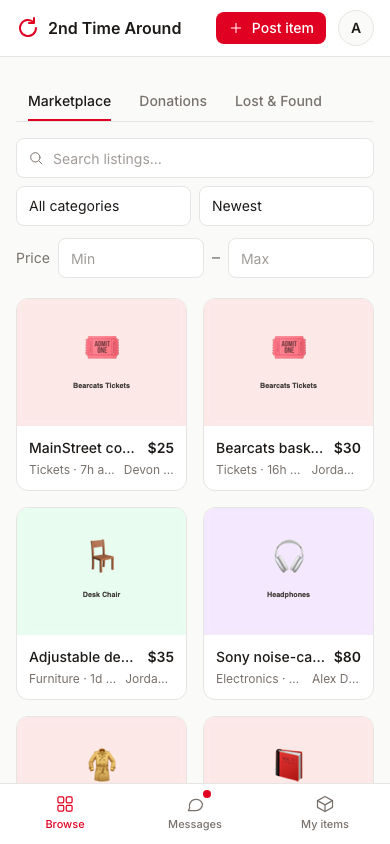
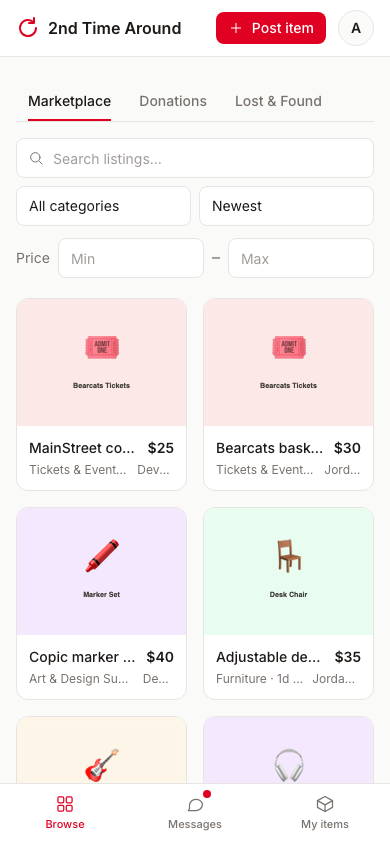
Implement the 13-category campus taxonomy from the system design
One validated string enum drives the Zod schema, browse filter, and
sell wizard. Seed remapped to the new categories with at least one
active listing per category (46 listings total), and the category-
visible screenshots refreshed.

diff --git a/prisma/seed.ts b/prisma/seed.ts
@@ -72,7 +72,7 @@ async function main() {
     type: "SELL", title: "Calculus: Early Transcendentals (8th ed)",
     description:
       "Stewart's calculus, used for MATH 1061/1062. Clean pages, no highlighting, binding solid. Saves you $200 vs the bookstore.",
-    category: "Textbooks", condition: "Like new", price: 45,
+    category: "Textbooks & Course Materials", condition: "Like new", price: 45,
     photos: ["/seed/calc-textbook.svg"], ownerId: maya.id,
     createdAt: daysAgo(2), viewCount: 38,
   });
@@ -80,7 +80,7 @@ async function main() {
     type: "SELL", title: "Organic Chemistry textbook + model kit",
     description:
       "Klein 4th edition with the molecular model kit thrown in. A few chapters have neat pencil notes (honestly helpful).",
-    category: "Textbooks", condition: "Good", price: 60,
+    category: "Textbooks & Course Materials", condition: "Good", price: 60,
     photos: ["/seed/chem-textbook.svg"], ownerId: priya.id,
     createdAt: daysAgo(4), viewCount: 22,
   });
@@ -104,7 +104,7 @@ async function main() {
     type: "SELL", title: "Mini fridge (3.2 cu ft)",
     description:
       "Cold, quiet, ice tray included. Moving off campus to a place with a real fridge. Pickup at Calhoun garage is easiest.",
-    category: "Dorm", condition: "Good", price: 70,
+    category: "Dorm & Apartment Essentials", condition: "Good", price: 70,
     photos: ["/seed/mini-fridge.svg"], ownerId: devon.id,
     createdAt: daysAgo(3), viewCount: 55,
   });
@@ -128,7 +128,7 @@ async function main() {
     type: "SELL", title: "UC Bearcats hoodie, size M",
     description:
       "Official bookstore hoodie, worn a handful of times. Too small for me now. No stains, no pilling.",
-    category: "Clothing", condition: "Like new", price: 20,
+    category: "Clothing & Accessories", condition: "Like new", price: 20,
     photos: ["/seed/uc-hoodie.svg"], ownerId: sam.id,
     createdAt: daysAgo(2, 5), viewCount: 12,
   });
@@ -136,7 +136,7 @@ async function main() {
     type: "SELL", title: "Bearcats basketball tickets (2) — Saturday",
     description:
       "Two student-section tickets for Saturday's home game. Can't make it anymore. Face value, no markup.",
-    category: "Tickets", condition: "New", price: 30,
+    category: "Tickets & Events", condition: "New", price: 30,
     photos: ["/seed/bball-tickets.svg"], ownerId: jordan.id,
     createdAt: daysAgo(1, 8), viewCount: 64,
   });
@@ -144,7 +144,7 @@ async function main() {
     type: "SELL", title: "5x7 area rug, neutral pattern",
     description:
       "Makes a dorm room instantly less echoey. Spot-cleaned, ready to go. Rolled up for easy carry.",
-    category: "Dorm", condition: "Good", price: 25,
+    category: "Dorm & Apartment Essentials", condition: "Good", price: 25,
     photos: ["/seed/rug.svg"], ownerId: devon.id,
     createdAt: daysAgo(9), viewCount: 19,
   });
@@ -153,21 +153,21 @@ async function main() {
     type: "SELL", title: "Road bike — 54cm, recently tuned",
     description:
       "Commuter road bike, new brake pads, rides smooth. Selling because I'm studying abroad in the spring.",
-    category: "Other", condition: "Good", price: 140,
+    category: "Bikes & Transit", condition: "Good", price: 140,
     photos: ["/seed/bike.svg"], ownerId: jordan.id,
     status: "SOLD", createdAt: daysAgo(30), updatedAt: daysAgo(28), viewCount: 88,
   });
   const soldPsych = await L({
     type: "SELL", title: "PSYC 1001 textbook bundle",
     description: "Both required books for intro psych, good condition.",
-    category: "Textbooks", condition: "Good", price: 38,
+    category: "Textbooks & Course Materials", condition: "Good", price: 38,
     photos: ["/seed/psych-textbook.svg"], ownerId: priya.id,
     status: "SOLD", createdAt: daysAgo(45), updatedAt: daysAgo(42), viewCount: 51,
   });
   await L({
     type: "SELL", title: "Winter coat, women's S",
     description: "Warm parka, perfect for the walk up the hill in January.",
-    category: "Clothing", condition: "Good", price: 28,
+    category: "Clothing & Accessories", condition: "Good", price: 28,
     photos: ["/seed/winter-coat.svg"], ownerId: maya.id,
     status: "SOLD", createdAt: daysAgo(60), updatedAt: daysAgo(55), viewCount: 47,
   });
@@ -177,7 +177,7 @@ async function main() {
     type: "DONATE", title: "Desk lamp with USB port",
     description:
       "Works great, just have two. LED bulb included. First come, first served — grab it before finals week.",
-    category: "Dorm", condition: "Good",
+    category: "Dorm & Apartment Essentials", condition: "Good",
     photos: ["/seed/desk-lamp.svg"], ownerId: maya.id,
     createdAt: daysAgo(1, 3), viewCount: 26,
   });
@@ -185,7 +185,7 @@ async function main() {
     type: "DONATE", title: "String lights (2 sets, warm white)",
     description:
       "Both sets work, every bulb checked. Make your dorm cozy for free.",
-    category: "Dorm", condition: "Like new",
+    category: "Dorm & Apartment Essentials", condition: "Like new",
     photos: ["/seed/string-lights.svg"], ownerId: sam.id,
     createdAt: daysAgo(3, 6), viewCount: 14,
   });
@@ -193,7 +193,7 @@ async function main() {
     type: "DONATE", title: "Intro psych study guides + flashcards",
     description:
       "Handwritten study guides and two boxes of flashcards from PSYC 1001. Helped me get an A — pay it forward.",
-    category: "Textbooks", condition: "Good",
+    category: "Textbooks & Course Materials", condition: "Good",
     photos: ["/seed/psych-textbook.svg"], ownerId: priya.id,
     createdAt: daysAgo(7), viewCount: 9,
   });
@@ -226,7 +226,7 @@ async function main() {
     type: "LOST", title: "Black JanSport backpack",
     description:
       "Lost Tuesday afternoon. Has a laptop sleeve, a red carabiner on the top handle, and chem notes inside. Reward: coffee on me.",
-    category: "Other", locationNote: "Braunstein Hall, room 300",
+    category: "Clothing & Accessories", locationNote: "Braunstein Hall, room 300",
     photos: ["/seed/backpack.svg"], ownerId: sam.id,
     createdAt: daysAgo(1, 2), viewCount: 42,
   });
@@ -252,7 +252,7 @@ async function main() {
     type: "FOUND", title: "Teal water bottle (32oz)",
     description:
       "Found on a bench outside the CRC after the 6pm rush. Has a couple of stickers on it — describe them and it's yours.",
-    category: "Other", locationNote: "CRC main entrance benches",
+    category: "Sports & Fitness", locationNote: "CRC main entrance benches",
     photos: ["/seed/water-bottle.svg"], ownerId: jordan.id,
     createdAt: daysAgo(1, 6), viewCount: 27,
   });
@@ -484,7 +484,7 @@ async function main() {
     type: "DONATE", title: "Closet organizer + 30 hangers",
     description:
       "Hanging fabric organizer plus a big stack of matching hangers. Free — just come grab it before move-out.",
-    category: "Dorm", condition: "Good",
+    category: "Dorm & Apartment Essentials", condition: "Good",
     photos: ["/seed/hangers.svg"], ownerId: demo.id,
     createdAt: daysAgo(5, 4), viewCount: 13,
   });
@@ -500,7 +500,7 @@ async function main() {
     type: "FOUND", title: "Gray knit beanie",
     description:
       "Found a gray beanie left on a table in the TUC food court on Thursday evening. Describe the brand or any marks and it's yours.",
-    category: "Clothing", locationNote: "TUC food court",
+    category: "Clothing & Accessories", locationNote: "TUC food court",
     photos: ["/seed/beanie.svg"], ownerId: demo.id,
     createdAt: daysAgo(2, 1), viewCount: 15,
   });
@@ -508,14 +508,14 @@ async function main() {
     type: "SELL", title: "Skateboard, barely used",
     description:
       "8.0 deck, smooth wheels. Realized I'm more of a bus person. Draft until I take real photos.",
-    category: "Other", condition: "Like new", price: 35,
+    category: "Bikes & Transit", condition: "Like new", price: 35,
     photos: ["/seed/skateboard.svg"], ownerId: demo.id,
     status: "DRAFT", createdAt: daysAgo(0, -4), viewCount: 0,
   });
   const demoMicrowave = await L({
     type: "SELL", title: "Microwave (0.7 cu ft)",
     description: "Dorm-size microwave, works perfectly. Sold to Jordan.",
-    category: "Dorm", condition: "Good", price: 25,
+    category: "Dorm & Apartment Essentials", condition: "Good", price: 25,
     photos: ["/seed/microwave.svg"], ownerId: demo.id,
     status: "SOLD", createdAt: daysAgo(20), updatedAt: daysAgo(18), viewCount: 37,
   });
@@ -611,7 +611,7 @@ async function main() {
     type: "SELL", title: "Physics 2001 textbook",
     description:
       "University Physics vol. 1, used one semester. Light highlighting in two chapters, otherwise clean.",
-    category: "Textbooks", condition: "Good", price: 30,
+    category: "Textbooks & Course Materials", condition: "Good", price: 30,
     photos: ["/seed/chem-textbook.svg"], ownerId: priya.id,
     createdAt: daysAgo(3, 9), viewCount: 18,
   });
@@ -619,7 +619,7 @@ async function main() {
     type: "SELL", title: "Electric kettle, 1.7L",
     description:
       "Boils fast, auto shutoff. Essential for ramen and all-nighters. Descaled last month.",
-    category: "Dorm", condition: "Good", price: 12,
+    category: "Kitchen & Appliances", condition: "Good", price: 12,
     photos: ["/seed/kettle.svg"], ownerId: sam.id,
     createdAt: daysAgo(4, 6), viewCount: 21,
   });
@@ -627,7 +627,7 @@ async function main() {
     type: "SELL", title: "MainStreet concert tickets (2)",
     description:
       "Two tickets for Friday's show at MainStreet. Can't go anymore — face value.",
-    category: "Tickets", condition: "New", price: 25,
+    category: "Tickets & Events", condition: "New", price: 25,
     photos: ["/seed/bball-tickets.svg"], ownerId: devon.id,
     createdAt: daysAgo(0, -7), viewCount: 33,
   });
@@ -635,7 +635,7 @@ async function main() {
     type: "SELL", title: "Women's rain jacket, size M",
     description:
       "Packable rain shell, great for the walk between Langsam and TUC. Zips into its own pocket.",
-    category: "Clothing", condition: "Like new", price: 18,
+    category: "Clothing & Accessories", condition: "Like new", price: 18,
     photos: ["/seed/winter-coat.svg"], ownerId: maya.id,
     createdAt: daysAgo(6, 3), viewCount: 10,
   });
@@ -651,7 +651,7 @@ async function main() {
     type: "DONATE", title: "Full-length mirror",
     description:
       "Door-hanging mirror, no cracks. Too heavy to ship home — free for pickup near campus.",
-    category: "Dorm", condition: "Good",
+    category: "Dorm & Apartment Essentials", condition: "Good",
     photos: ["/seed/mirror.svg"], ownerId: maya.id,
     createdAt: daysAgo(5, 8), viewCount: 25,
   });
@@ -663,6 +663,48 @@ async function main() {
     photos: ["/seed/ring.svg"], ownerId: sam.id,
     createdAt: daysAgo(3, 5), viewCount: 29,
   });
+  // One active listing per remaining category — no filter dead-ends.
+  await L({
+    type: "SELL", title: "Yamaha acoustic guitar + soft case",
+    description:
+      "FG800, great starter guitar. New strings last month. Selling because I upgraded — CCM friends, this one's honest.",
+    category: "Music & Instruments", condition: "Good", price: 90,
+    photos: ["/seed/guitar.svg"], ownerId: devon.id,
+    createdAt: daysAgo(2, 8), viewCount: 22,
+  });
+  await L({
+    type: "SELL", title: "Copic marker set (24, mostly new)",
+    description:
+      "24-color set from my first DAAP studio cycle. Three markers half-used, the rest barely touched. Huge savings vs the bookstore.",
+    category: "Art & Design Supplies", condition: "Like new", price: 40,
+    photos: ["/seed/markers.svg"], ownerId: devon.id,
+    createdAt: daysAgo(1, 7), viewCount: 28,
+  });
+  await L({
+    type: "SELL", title: "Yoga mat + two blocks",
+    description:
+      "Thick mat, wiped down, with cork blocks. Perfect for CRC classes or dorm-room stretching.",
+    category: "Sports & Fitness", condition: "Good", price: 10,
+    photos: ["/seed/yoga-mat.svg"], ownerId: priya.id,
+    createdAt: daysAgo(3, 7), viewCount: 9,
+  });
+  await L({
+    type: "SELL", title: "U-lock + bike lights set",
+    description:
+      "Kryptonite U-lock with two keys plus front/rear USB lights. Sold my bike, keeping you and yours safe instead.",
+    category: "Bikes & Transit", condition: "Good", price: 15,
+    photos: ["/seed/bike-lock.svg"], ownerId: jordan.id,
+    createdAt: daysAgo(2, 6), viewCount: 14,
+  });
+  await L({
+    type: "DONATE", title: "Desk organizer + planner bundle",
+    description:
+      "Mesh desk organizer, an unused 2026 planner, and a stack of sticky notes. Free to a fellow over-organizer.",
+    category: "School & Office Supplies", condition: "Like new",
+    photos: ["/seed/planner.svg"], ownerId: sam.id,
+    createdAt: daysAgo(1, 1), viewCount: 11,
+  });
+
   await L({
     type: "FOUND", title: "TI calculator in a green case",
     description:

diff --git a/src/lib/constants.ts b/src/lib/constants.ts
@@ -12,13 +12,21 @@ export const LISTING_STATUSES = [
 ] as const;
 export type ListingStatus = (typeof LISTING_STATUSES)[number];
 
+// Campus-life taxonomy — see docs/SYSTEM_DESIGN.md §2 for the full design
+// (subcategories, UC-specific rationale, prohibited items).
 export const CATEGORIES = [
-  "Textbooks",
-  "Furniture",
+  "Textbooks & Course Materials",
   "Electronics",
-  "Clothing",
-  "Dorm",
-  "Tickets",
+  "Furniture",
+  "Dorm & Apartment Essentials",
+  "Kitchen & Appliances",
+  "Clothing & Accessories",
+  "Tickets & Events",
+  "Bikes & Transit",
+  "Sports & Fitness",
+  "School & Office Supplies",
+  "Music & Instruments",
+  "Art & Design Supplies",
   "Other",
 ] as const;
 export type Category = (typeof CATEGORIES)[number];

diff --git a/README.md b/README.md
@@ -145,6 +145,12 @@ interactive cards with inline Accept/Decline and Approve/Deny.
 
 ## Notable design decisions
 
+- **Categories** are the 13-item campus taxonomy from
+  [`docs/SYSTEM_DESIGN.md`](docs/SYSTEM_DESIGN.md) §2 (Textbooks & Course
+  Materials, Bikes & Transit, Music & Instruments for CCM, Art & Design
+  Supplies for DAAP, …), implemented as one validated string enum that
+  drives the Zod schema, browse filters, and the sell wizard. Subcategories
+  stay search keywords for now — depth kills mobile filter UX.
 - **`DRAFT` listing status** was added beyond the spec's four statuses so
   the My Items → Drafts tab has real backing (wizard offers "Save as draft").
 - **`Conversation.starterId`** exists alongside the spec's `participantIds`

diff --git a/docs/SYSTEM_DESIGN.md b/docs/SYSTEM_DESIGN.md
@@ -201,9 +201,11 @@ Indexes: (type, status, category, createdAt) · (ownerId) · (conversationId, cr
 Constraints: unique (listingId, starterId) · unique (fromUserId, listingId)
 ```
 
-Categories currently ship as a validated string enum (cheap, type-safe). The
-section-2 taxonomy maps to a `Category(id, name, parentId?, sortOrder)` table
-when subcategories and per-category fields (course code, bike serial) arrive.
+The 13 top-level categories from section 2 ship as a validated string enum
+(cheap, type-safe; one list drives the Zod schema, the browse filter, and
+the sell wizard). The taxonomy maps to a
+`Category(id, name, parentId?, sortOrder)` table when subcategories and
+per-category fields (course code, bike serial) arrive.
 
 ---
 
